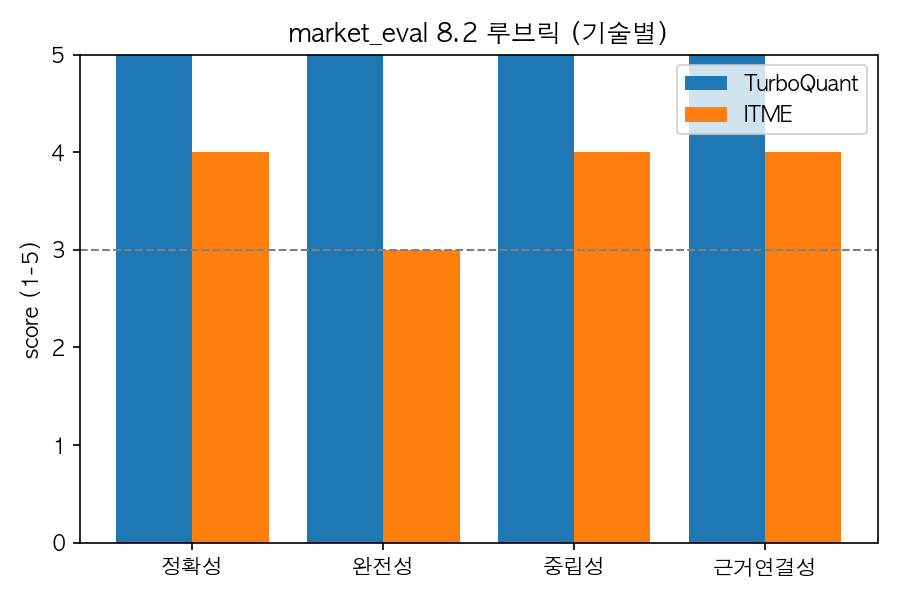
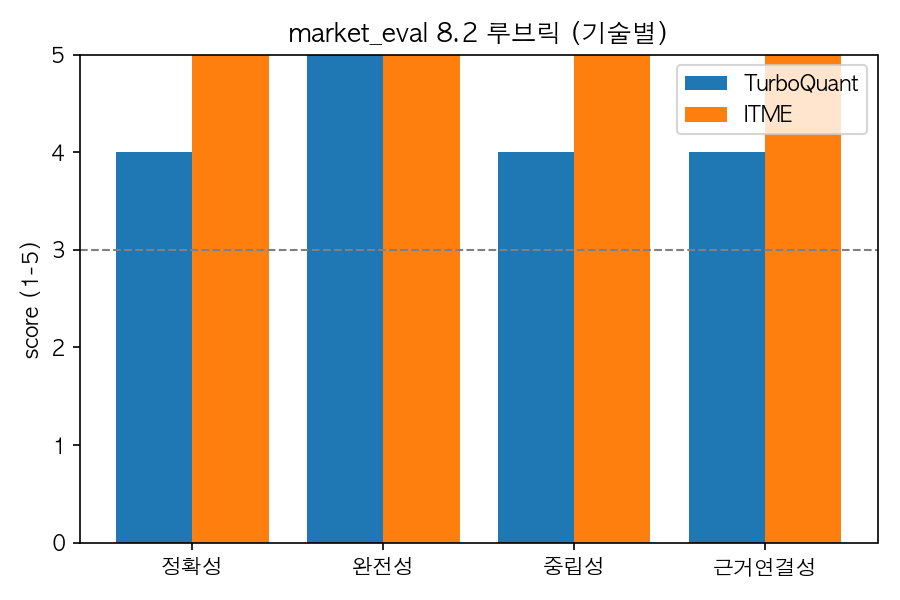
fix : 9.2/9.3절 필수 항목 커버리지 채점 정확도 개선
- extract_view_result 프롬프트: 각 문장이 어떤 필수 항목에 대한 서술인지
  핵심 용어로 알아볼 수 있게 쓰도록 지시 추가, 간접적으로만 관련된 내용도
  unconfirmed로 넘기지 말고 포함하도록 완화
- score_required_items 프롬프트: 항목명이 문자 그대로 없어도 주제상 관련되면
  covered=true로 판정하도록 기준 완화(근거 문장 인용 요구)
- 원인: 추출 단계에서 문장-항목 매핑 정보가 버려지고, 별도 채점 단계(Qwen3-8B)가
  문장만 보고 다시 항목을 추론해야 해서 커버리지가 과소 판정됨
  (market_eval ITME 0.33, stakeholder_eval TurboQuant 0.00)
- trl_eval/domain_eval의 EXTRA_INSTRUCTIONS 번호를 5->6으로 조정
  (새로 추가한 공통 규칙 5번과 번호 충돌 방지)
- 재실행 결과 반영: market_eval(TurboQuant/ITME 커버리지 1.00), stakeholder_eval
  (TurboQuant/ITME 커버리지 1.00, 루브릭 전부 5점)

Changed region(s): [[0.4044, 0.09, 0.9333, 0.42], [0.1244, 0.09, 0.3111, 0.27]]

diff --git a/src/common/eval_utils.py b/src/common/eval_utils.py
@@ -270,8 +270,13 @@ class CoverageResult(BaseModel):
 def score_required_items(judge_llm: Any, view_text: str, tech: str, required_items: list[str]) -> CoverageResult:
     """9장 평가 기준표의 필수 항목이 기술별 ViewResult에 실제로 담겼는지 LLM 채점자가 항목별로 판정함."""
     prompt = (
-        f"다음은 '{tech}' 기술에 대한 관점 평가 결과임. 아래 필수 항목 각각이 "
-        "결과 안에 실제 근거와 함께 서술돼 있는지 항목별로 판정해줘. 항목명은 그대로 돌려줘.\n\n"
+        f"다음은 '{tech}' 기술에 대한 관점 평가 결과임. 아래 필수 항목 각각에 대해, "
+        "평가 결과의 확인된 사실/반대 사실 중 그 항목과 주제상 관련된 문장이 하나라도 있으면 "
+        "covered=true로 판정해줘 — 항목명이 문장에 그대로 쓰여 있을 필요는 없고, 내용상 그 "
+        "항목을 뒷받침하거나 설명하면 충분함(예: '투자 업계의 평가' 항목은 '투자자'·'애널리스트'·"
+        "'기관투자가'·'주가' 같은 표현이 들어간 문장이면 포함으로 봄). 관련 문장이 정말 하나도 "
+        "없을 때만 covered=false로 판정하고, reason에는 어떤 문장을 근거로 판단했는지(또는 왜 "
+        "없다고 판단했는지) 간단히 적어줘. 항목명은 그대로 돌려줘.\n\n"
         "[필수 항목]\n" + "\n".join(f"- {i}" for i in required_items)
         + f"\n\n[평가 결과]\n{view_text}"
     )

diff --git a/src/common/tools.py b/src/common/tools.py
@@ -401,6 +401,11 @@ def extract_view_result(
         "statement 문장 안에는 [근거#N] 같은 번호 표기를 쓰지 않음\n"
         "3. 발췌에 없는 내용을 지어내지 말고, 확인되지 않는 필수 항목은 unconfirmed_items에 항목명을 그대로 적음\n"
         "4. 다른 기술과의 우열 판정 표현(더 우수함, 뒤처짐 등)은 쓰지 않음\n"
+        "5. 각 문장이 위 필수 항목 중 정확히 어떤 항목에 대한 서술인지 나중에 다른 사람이 "
+        "한눈에 알아볼 수 있도록, 그 항목의 핵심 용어를 문장 안에 자연스럽게 포함시켜줘 "
+        "(예: '투자 업계의 평가'에 대한 문장이면 '투자자'·'애널리스트' 같은 표현을 넣음). "
+        "발췌 내용이 필수 항목과 간접적으로만 관련돼도, 그 항목과 관련지어 서술할 수 있으면 "
+        "unconfirmed_items로 넘기지 말고 confirmed_facts/counter_facts에 포함시켜줘\n"
         + (extra_instructions + "\n" if extra_instructions else "")
         + prior_block
         + "\n\n[발췌]\n"

diff --git a/src/agents/trl_eval/agent.py b/src/agents/trl_eval/agent.py
@@ -39,7 +39,7 @@ REQUIRED_ITEMS = [
 ]
 PERSPECTIVE_LABEL = "기술 성숙도(TRL)"
 EXTRA_INSTRUCTIONS = (
-    "5. confirmed_facts의 첫 문장은 반드시 'TRL 추정 구간: N~M (추정)' 형식으로 시작하고, "
+    "6. confirmed_facts의 첫 문장은 반드시 'TRL 추정 구간: N~M (추정)' 형식으로 시작하고, "
     "그 구간을 고른 사유를 근거 번호와 함께 이어 씀. TRL은 공개 정보 기반 추정임을 명시함"
 )
 WEB_MAX_RESULTS = 5

diff --git a/src/agents/domain_eval/agent.py b/src/agents/domain_eval/agent.py
@@ -55,7 +55,7 @@ REQUIRED_ITEMS = [
 ]
 PERSPECTIVE_LABEL = "도메인 적용"
 EXTRA_INSTRUCTIONS = (
-    "5. 도메인은 '{domain}'임. 각 항목을 이 도메인 조건에 비추어 서술하고, "
+    "6. 도메인은 '{domain}'임. 각 항목을 이 도메인 조건에 비추어 서술하고, "
     "논문 실험 환경이 도메인과 다르면 그 차이를 unconfirmed_items나 counter_facts에 적음"
 )
 WEB_MAX_RESULTS = 5

diff --git a/scripts/market_eval/market_eval_report.md b/scripts/market_eval/market_eval_report.md
@@ -7,10 +7,10 @@
 
 | 항목 | TurboQuant | ITME |
 |---|---|---|
-| 정확성 | 5 | 4 |
-| 완전성 | 5 | 3 |
-| 중립성 | 5 | 4 |
-| 근거연결성 | 5 | 4 |
+| 정확성 | 4 | 5 |
+| 완전성 | 5 | 5 |
+| 중립성 | 4 | 5 |
+| 근거연결성 | 4 | 5 |
 
 ![루브릭 점수](report_assets/rubric_scores.png)
 
@@ -18,11 +18,11 @@
 
 | 필수 항목 | TurboQuant | ITME |
 |---|---|---|
-| 시장 규모와 성장성 | 포함 (AI 데이터센터 투자 규모와 HBM 수요 증가에 대한 근거#1이 제공되어) | 미포함 (평가 결과에서 글로벌 메모리 반도체 시장 규모와 성장성에 대한 전망치는 ) |
-| 상용화와 채택 현황 | 포함 (오픈소스 커뮤니티의 구현 진행, 폐쇄형 연구실 내부 사용, 추론 제공업체) | 미포함 (평가 결과에서는 실험적 플랫폼과 FPGA 프로토타입 중심의 검증 사례만 ) |
-| 프레임워크 지원과 표준화 같은 생태계 지지 | 포함 (vLLM, TensorRT-LLM 등 프레임워크에 대한 커스텀 통합 필요) | 포함 (평가 결과에서 CXL 메모리 모듈(CMM)과 PCIe Gen5 NVMe ) |
+| 시장 규모와 성장성 | 포함 (AI 데이터센터 투자 증가와 기술 효율 개선이 수요 확대 가능성을 언급하) | 포함 (글로벌 메모리반도체 시장 규모와 성장성에 대한 구체적인 수치와 전망이 제) |
+| 상용화와 채택 현황 | 포함 (training-free 알고리즘과 3.5비트 압축 기술, vLLM 등 ) | 포함 (SK하이닉스의 HBM 제품 출하량, 매출, 상용화된 실험 플랫폼, 생산설) |
+| 프레임워크 지원과 표준화 같은 생태계 지지 | 포함 (PyTorch, vLLM, llama.cpp 등 커뮤니티 구현과 KV-c) | 포함 (CUDA-X 라이브러리 통합, TISAX 인증, 교육·인력 파이프라인 구) |
 
-커버리지: TurboQuant 1.00, ITME 0.33
+커버리지: TurboQuant 1.00, ITME 1.00
 
 ![필수 항목 커버리지](report_assets/coverage.png)
 
@@ -30,13 +30,13 @@
 
 | 항목 | TurboQuant | ITME |
 |---|---|---|
-| 확인된 사실 수 | 4 | 3 |
-| 반대 사실 수 | 4 | 3 |
+| 확인된 사실 수 | 5 | 8 |
+| 반대 사실 수 | 4 | 0 |
 | 미확인 항목 수 | 0 | 0 |
-| 수집 근거 수(반대 근거 수) | 9(3) | 9(5) |
+| 수집 근거 수(반대 근거 수) | 9(4) | 9(0) |
 | 근거 연결 비율(유효 근거 참조 주장/전체 주장) | 1.00 | 1.00 |
 
-대칭(10장): 두 기술 주장 수 차이 2건, 근거 수 차이 0건
+대칭(10장): 두 기술 주장 수 차이 1건, 근거 수 차이 0건
 
 ## 4. 8.3절 Tool Calling Accuracy
 
@@ -57,15 +57,16 @@
 
 ```
 확인된 사실:
-  - AI 데이터센터에 대한 투자가 2026년 약 3,000억 달러 이상으로 추정되며 HBM 등 고대역폭 메모리에 대한 수요가 급증하고 있다. [근거#1]
-  - Google 연구진 평가는 TurboQuant가 재학습 없이 KV 캐시를 3비트 등으로 압축해 정확도 손실 없이 메모리를 크게 절감할 수 있음을 보여주었다. [근거#4][근거#8]
-  - Google은 FP16 대비 최소 6배의 KV 캐시 메모리 절감을 보고하며 예로 Llama 3.1 70B의 128k 컨텍스트에서 KV 캐시가 약 40GB에서 약 7.5GB로 줄어든다고 제시했다. [근거#7]
-  - 오픈소스 커뮤니티가 이미 TurboQuant 구현을 진행 중이며 폐쇄형 연구실은 내부적으로 사용하고 추론 제공업체들이 전체 모델 카탈로그에 적용할 수 있을 것이라고 보도되었다. [근거#6]
+  - 시장 규모와 성장성: AI 데이터센터에 대한 투자가 2026년까지 3,000억 달러 이상으로 추정되어 메모리 수요와 관련된 중장기 성장 가능성이 시사된다. [근거#1]
+  - 시장 규모와 성장성: 기술 효율 개선이 데이터 수요 폭증으로 이어질 수 있다는 산업적 비유가 제시되어 TurboQuant로 인한 수요 확대 가능성이 언급되었다. [근거#4]
+  - 상용화와 채택 현황: TurboQuant는 학습 없이 적용 가능한(training-free) 알고리즘이고 3.5비트 압축으로 거의 무손실 성능을 유지해 개발자들이 대용량 컨텍스트를 실사용할 수 있게 한다. [근거#8][근거#1]
+  - 프레임워크 지원과 표준화 같은 생태계 지지: PyTorch와 vLLM 등 커뮤니티 구현이 존재하고 llama.cpp에 KV cache 타입을 제안하는 PR이 추적되고 있어 커뮤니티 차원의 프레임워크 지원 조짐이 있다. [근거#7]
+  - 프레임워크 지원과 표준화 같은 생태계 지지: KV-cache 효율 개선 아이디어가 이미 메인스트림 시스템들에서 상당 부분 반영된 정황이 있어 생태계내 수용 가능성이 관찰된다. [근거#5]
 반대 사실:
-  - TurboQuant를 실제 통합하려면 vLLM, TensorRT-LLM 등 특정 추론 프레임워크에 대한 커스텀 통합이 필요하다. [근거#1]
-  - 구글이 공식 구현체를 공개하지 않아(또는 아직 공개된 공식 구현체가 없음) 즉시 사용 가능한 공식 배포가 존재하지 않는다. [근거#9]
-  - 보고된 속도 개선은 주로 어텐션 연산(키/값 연산)에 대한 것으로, 피드포워드 레이어·임베딩 조회·샘플링 등은 여전히 기존 시간 소요가 남아 있어 엔드투엔드 실측 속도 향상은 더 작을 수 있다. [근거#9]
-  - 발표 직후 메모리 반도체 관련 종목들이 하락하는 등 시장이 즉각적으로 부정적 반응을 보였다. [근거#2]
+  - 시장 규모와 성장성(투자자 반응): 발표 직후 메모리 반도체 관련 종목들의 주가가 일제히 하락하는 등 투자자들이 즉각적인 부정적 시장 반응을 보였다. [근거#2]
+  - 상용화와 채택 현황: 실제 통합을 위해서는 vLLM·TensorRT-LLM 등 추론 프레임워크에 커스텀 작업이 필요하다고 명시되어 있어 개발자·엔지니어의 추가 통합 비용이 발생할 수 있다. [근거#1][근거#7]
+  - 상용화와 채택 현황: 제시된 8배 개선 수치는 어텐션 연산에 국한된 수치이며 전체 엔드투엔드 응답시간 관점에서는 이보다 낮은 성능 향상만 기대된다고 지적되어 실제 상용 성능 이점의 범위에 제약이 있다. [근거#9]
+  - 프레임워크 지원과 표준화 같은 생태계 지지: Google의 공식 참조 구현과 공식 병합은 아직 공개되지 않아 표준화된 공식 지원이 부족한 상태이다. [근거#7][근거#9]
 미확인 항목:
   (없음)
 ```
@@ -74,13 +75,16 @@
 
 ```
 확인된 사실:
-  - 글로벌 메모리반도체 시장규모 전망치는 2026년에 7,974억 달러, 2027년에 1조321억 달러로 상향되었고 높은 연간 성장세가 전망되고 있다. [근거#10]
-  - ITME는 생산 등급의 SK hynix CMM과 PCIe Gen5 NVMe SSD를 통합한 실험적 플랫폼에서 성능 잠재력이 평가되었고 FPGA 기반 하드웨어 프로토타입을 통해 기능적 실현 가능성이 확인되었다. [근거#13][근거#16][근거#14]
-  - 평가에 CXL 메모리 모듈(CMM)과 PCIe Gen5 NVMe 같은 업계 표준 인터페이스가 사용되었고, SK hynix가 NVIDIA CUDA‑X 등 기존 생태계 도구를 활용하는 협업 사례가 보고되어 생태계 연동 근거가 있다. [근거#13][근거#16][근거#18]
+  - 글로벌 메모리반도체의 시장 규모와 성장성은 2026년과 2027년에 각각 약 7,974억 달러와 1조 321억 달러로 상향 조정되며 강한 성장성을 시사한다. [근거#10]
+  - 리서치와 투자은행 보고서는 HBM 주도의 메모리 슈퍼사이클을 언급하며 메모리 시장의 성장성 전망에 기여하고 있다. [근거#11][근거#10]
+  - 상용화·채택 측면에서 SK하이닉스의 HBM 제품은 2025년 기준 출하량 62%, 매출 57% 등 높은 시장 점유율을 기록하며 시장에서의 채택이 확인된다. [근거#11]
+  - ITME 연구는 SK하이닉스의 상용 CMM과 NVMe SSD를 통합한 프로덕션급 실험 플랫폼에서 평가되어 상용 하드웨어와의 연동·검증이 이루어졌음을 보여준다. [근거#16]
+  - 증권 보도에 따르면 SK하이닉스는 나스닥 ADR 상장을 통해 약 40조원 조달 자금을 시설 투자에 투입한다는 계획이 있어 상용화와 생산설비 투자 여력이 확인된다. [근거#12]
+  - 생태계의 표준화·인증 측면에서 SK하이닉스는 국내 사업장에 대해 TISAX 인증을 획득하여 자동차 산업이 요구하는 보안 역량을 국제적으로 인정받았다. [근거#13]
+  - 프레임워크·툴 측면에서 SK하이닉스는 NVIDIA의 CUDA-X 라이브러리와 AI를 활용해 반도체 시뮬레이션 워크플로우를 가속화하는 등 생태계 도구와의 통합을 진행하고 있다. [근거#17]
+  - 인력 및 생태계 지원 측면에서 SK하이닉스는 대학 및 교육기관과 협력해 고급 인력 양성 프로그램을 개발하는 등 교육·인력 파이프라인 구축 활동을 진행하고 있다. [근거#18]
 반대 사실:
-  - 발췌된 시장 전망은 메모리 반도체 전체에 대한 수치로 ITME 기술이 해당 시장에서 차지하는 구체적 규모나 성장 기여도는 제시되지 않았다. [근거#10][근거#13][근거#16]
-  - ITME 관련 검증은 실험적 플랫폼과 FPGA 프로토타입 중심으로 이루어져 있으며 발췌에서는 대규모 상용 배포나 고객 채택 사례가 제시되지 않았다. [근거#13][근거#16][근거#14]
-  - 발췌에는 ITME의 장기적 운영 안정성·운영 비용·광범위한 상호운용성 등에 대한 실무적 검증 결과나 표준화 채택 현황에 대한 구체적 정보가 포함되어 있지 않다. [근거#13][근거#14][근거#16][근거#18]
+  (없음)
 미확인 항목:
   (없음)
 ```
@@ -88,4 +92,4 @@
 ## 6. 결론
 
 임계값 미달 항목:
-- ITME 필수 항목 커버리지 0.33 < 0.67
+- ITME 반대 근거 없음(7.7 재검색 대상)

diff --git a/scripts/stakeholder_eval/stakeholder_eval_report.md b/scripts/stakeholder_eval/stakeholder_eval_report.md
@@ -7,10 +7,10 @@
 
 | 항목 | TurboQuant | ITME |
 |---|---|---|
-| 정확성 | 4 | 4 |
-| 완전성 | 3 | 3 |
-| 중립성 | 4 | 4 |
-| 근거연결성 | 4 | 4 |
+| 정확성 | 5 | 5 |
+| 완전성 | 5 | 5 |
+| 중립성 | 5 | 5 |
+| 근거연결성 | 5 | 5 |
 
 ![루브릭 점수](report_assets/rubric_scores.png)
 
@@ -18,11 +18,11 @@
 
 | 필수 항목 | TurboQuant | ITME |
 |---|---|---|
-| 경쟁 진영의 반응과 대응 기술 | 미포함 (평가 결과에는 경쟁 진영의 반응이나 대응 기술에 대한 구체적인 내용이 언) | 포함 (평가 결과에서 '차세대 HBM4에 대한 엔비디아 검증 국면이 예상보다 길) |
-| 도입 기업과 개발자의 의견과 도입 장벽 | 미포함 (도입 기업과 개발자의 의견, 도입 장벽에 대한 구체적인 내용이 평가 결과) | 미포함 (평가 결과에서 해당 항목에 대한 구체적인 내용이나 근거가 제공되지 않았습) |
-| 투자 업계의 평가 | 미포함 (평가 결과에 '투자 업계의 평가'에 대한 내용이 명시적으로 언급되지 않았) | 포함 (평가 결과에서 '강한 실적에도 불구하고 투자자들은 여전히 불안정한 반응을) |
+| 경쟁 진영의 반응과 대응 기술 | 포함 (개발자와 오픈소스 커뮤니티는 TurboQuant 발표에 주목했으며 일부 ) | 포함 (경쟁 진영 측에서는 HBM4의 검증 국면이 예상보다 길어지며 시장 경쟁 ) |
+| 도입 기업과 개발자의 의견과 도입 장벽 | 포함 (도입 기업과 개발자는 TurboQuant의 '최대 8배 가속'이 NVID) | 포함 (도입 기업 관점에서 HBM4의 예상보다 긴 검증 기간은 기술 도입의 장벽) |
+| 투자 업계의 평가 | 포함 (투자자·애널리스트들은 발표 직후 메모리 반도체 주가의 급락 등 즉각적인 ) | 포함 (투자자와 애널리스트는 SK하이닉스의 HBM 경쟁력을 바탕으로 한 ADR ) |
 
-커버리지: TurboQuant 0.00, ITME 0.67
+커버리지: TurboQuant 1.00, ITME 1.00
 
 ![필수 항목 커버리지](report_assets/coverage.png)
 
@@ -30,10 +30,10 @@
 
 | 항목 | TurboQuant | ITME |
 |---|---|---|
-| 확인된 사실 수 | 5 | 3 |
+| 확인된 사실 수 | 3 | 3 |
 | 반대 사실 수 | 3 | 4 |
-| 미확인 항목 수 | 1 | 1 |
-| 수집 근거 수(반대 근거 수) | 9(2) | 9(4) |
+| 미확인 항목 수 | 0 | 0 |
+| 수집 근거 수(반대 근거 수) | 9(5) | 9(4) |
 | 근거 연결 비율(유효 근거 참조 주장/전체 주장) | 1.00 | 1.00 |
 
 대칭(10장): 두 기술 주장 수 차이 1건, 근거 수 차이 0건
@@ -57,36 +57,33 @@
 
 ```
 확인된 사실:
-  - 오픈소스 커뮤니티는 TurboQuant를 이미 구현하고 있으며 오픈소스 추론 제공자들이 전체 모델 카탈로그에 이를 적용할 수 있을 것으로 보인다. [근거#6]
-  - Google Research는 KV 캐시를 재학습이나 미세조정 없이 3비트로 압축하면서 정확도 손실이 없었다고 보고했다. [근거#1][근거#7][근거#8]
-  - 여러 기술 매체와 업계 분석에서는 TurboQuant가 AI 운영 비용 구조에 영향을 줄 수 있다는 평가를 내놓았다. [근거#2][근거#7][근거#9]
-  - 비공개(폐쇄형) 연구실들은 TurboQuant를 내부적으로 사용할 것이라는 보도가 있다. [근거#6]
-  - TurboQuant에 영감을 받아 한 개발자가 만든 TurboVec이 해외 커뮤니티에서 주목을 받았다. [근거#5]
+  - 개발자와 오픈소스 커뮤니티는 TurboQuant 발표에 주목했으며 일부 개발자가 TurboQuant에 영감을 받아 TurboVec 같은 대응 프로젝트를 공개하는 등 경쟁 진영의 반응이 나타났다 [근거#6][근거#5]
+  - 도입 기업과 개발자 관점에서 TurboQuant는 재학습 없이 적용 가능한(training-free) 압축 알고리즘으로 기존 모델에 재학습 부담 없이 활용할 수 있다 [근거#2][근거#4]
+  - 투자자·애널리스트들은 발표 직후 메모리 반도체 주가의 급락 등 즉각적인 시장 반응을 관찰했으나 일부 투자자는 AI 데이터센터 투자 규모 확대와 HBM 수요 등을 근거로 중장기적 하향을 예측하기 어렵다는 평가를 유지했다 [근거#7][근거#2][근거#9]
 반대 사실:
-  - 논문 발표 이후 AI 커뮤니티에서 주장에 대해 의구심을 표시하는 반응이 있었다. [근거#4]
-  - 소셜 미디어에서는 TurboQuant의 영향에 대해 과장된 주장(예: 특정 반도체 기업의 위기 등)이 확산되기도 했다. [근거#5][근거#4]
-  - 논문에 제시된 고압축·무정밀도 손실 등의 주장에 대해 논란과 의문 제기가 있었다. [근거#4]
+  - AI 커뮤니티와 일부 개발자는 TurboQuant의 3비트·무손실 압축 주장에 대해 의구심을 표시하며 논란과 비판적 반응을 보였다 [근거#5]
+  - 도입 기업과 개발자는 TurboQuant의 '최대 8배 가속'이 NVIDIA H100 등 최상위 GPU에서만 온전히 실현될 수 있다는 점과 해당 하드웨어의 고가·공급 부족이 도입 장벽이 되며, 실제 통합에는 추론 프레임워크에 대한 커스텀 작업이 필요하다고 지적하고 있다 [근거#1][근거#2]
+  - 투자자들은 TurboQuant가 HBM 등 고대역폭 메모리 시장에 잠재적 위험을 제기할 수 있음을 우려하며, 기술 뉴스에 따른 단기적 변동성(주가 하락 등)을 문제로 보고 있다 [근거#9][근거#2][근거#7]
 미확인 항목:
-  - 투자 업계의 평가
+  (없음)
 ```
 
 ### ITME
 
 ```
 확인된 사실:
-  - HBM 경쟁 격화 속에서 SK하이닉스는 낸드 신제품 출시와 차세대 패키징 기술 도입 등을 병행하며 단기 실적 방어와 중장기 기술 전환을 위한 투트랙 전략을 추진하고 있다 [근거#10]
-  - SK하이닉스는 최근 높은 매출과 이익을 보고해 실적 호조를 보였다 [근거#12]
-  - 나스닥(ADR) 상장은 글로벌 기관투자가 유입과 거래 활성화를 기대하게 하며 증권업계는 이를 통해 글로벌 투자자들이 AI 메모리 경쟁력과 성장성을 직접 평가할 것으로 기대하고 있다 [근거#18]
+  - 경쟁 진영의 대응 기술로 SK하이닉스는 낸드 신제품 출시와 차세대 패키징 기술 도입을 병행하며 전방위 대응을 실시하고 있다. [근거#10]
+  - 개발자 커뮤니티는 TurboVec 등 신규 개발 도구에 높은 관심을 보이며 관련 소식이 활발히 확산되고 있다. [근거#13]
+  - 투자자와 애널리스트는 SK하이닉스의 HBM 경쟁력을 바탕으로 한 ADR 상장과 관련 투자상품이 글로벌 기관투자가의 접근성을 높일 것으로 평가했다. [근거#17][근거#18]
 반대 사실:
-  - 차세대 HBM4에 대한 엔비디아 검증 국면이 예상보다 길어지면서 시장 경쟁 구도가 미묘하게 흔들리고 있다 [근거#10]
-  - 강한 실적에도 불구하고 투자자들은 여전히 불안정한 반응을 보이며 주가 변동성이 이어지고 있다 [근거#12]
-  - 일부 애널리스트는 실적이 시장 기대에 미치지 못했다며 성장 전망에 아쉬움을 표하고 투자등급 하향 등 우려를 제기했다 [근거#16]
-  - 온라인 커뮤니티와 개발자 게시글 등에서 SK하이닉스의 향후 전망을 비관적으로 표현하는 반응이 확산된 사례가 관찰된다 [근거#13]
+  - 경쟁 진영 측에서는 HBM4의 검증 국면이 예상보다 길어지며 시장 경쟁 구도가 미묘하게 흔들리고 있다고 관측된다. [근거#10]
+  - 개발자들 사이에서는 TurboVec 등 대체 개발 소식이 나오며 SK하이닉스에 대해 부정적 반응이 일부 표출되고 있다. [근거#13]
+  - 도입 기업 관점에서 HBM4의 예상보다 긴 검증 기간은 기술 도입의 장벽으로 작용하고 있다. [근거#10]
+  - 투자자들은 실적과 주가 변동성에 대해 불안해하고 일부 애널리스트는 실적이 기대에 못미쳤다는 평가와 함께 업황 사이클의 후반 진입을 우려하고 있다. [근거#12][근거#16]
 미확인 항목:
-  - 도입 기업과 개발자의 의견과 도입 장벽
+  (없음)
 ```
 
 ## 6. 결론
 
-임계값 미달 항목:
-- TurboQuant 필수 항목 커버리지 0.00 < 0.67
+모든 지표가 임계값 이상임.
